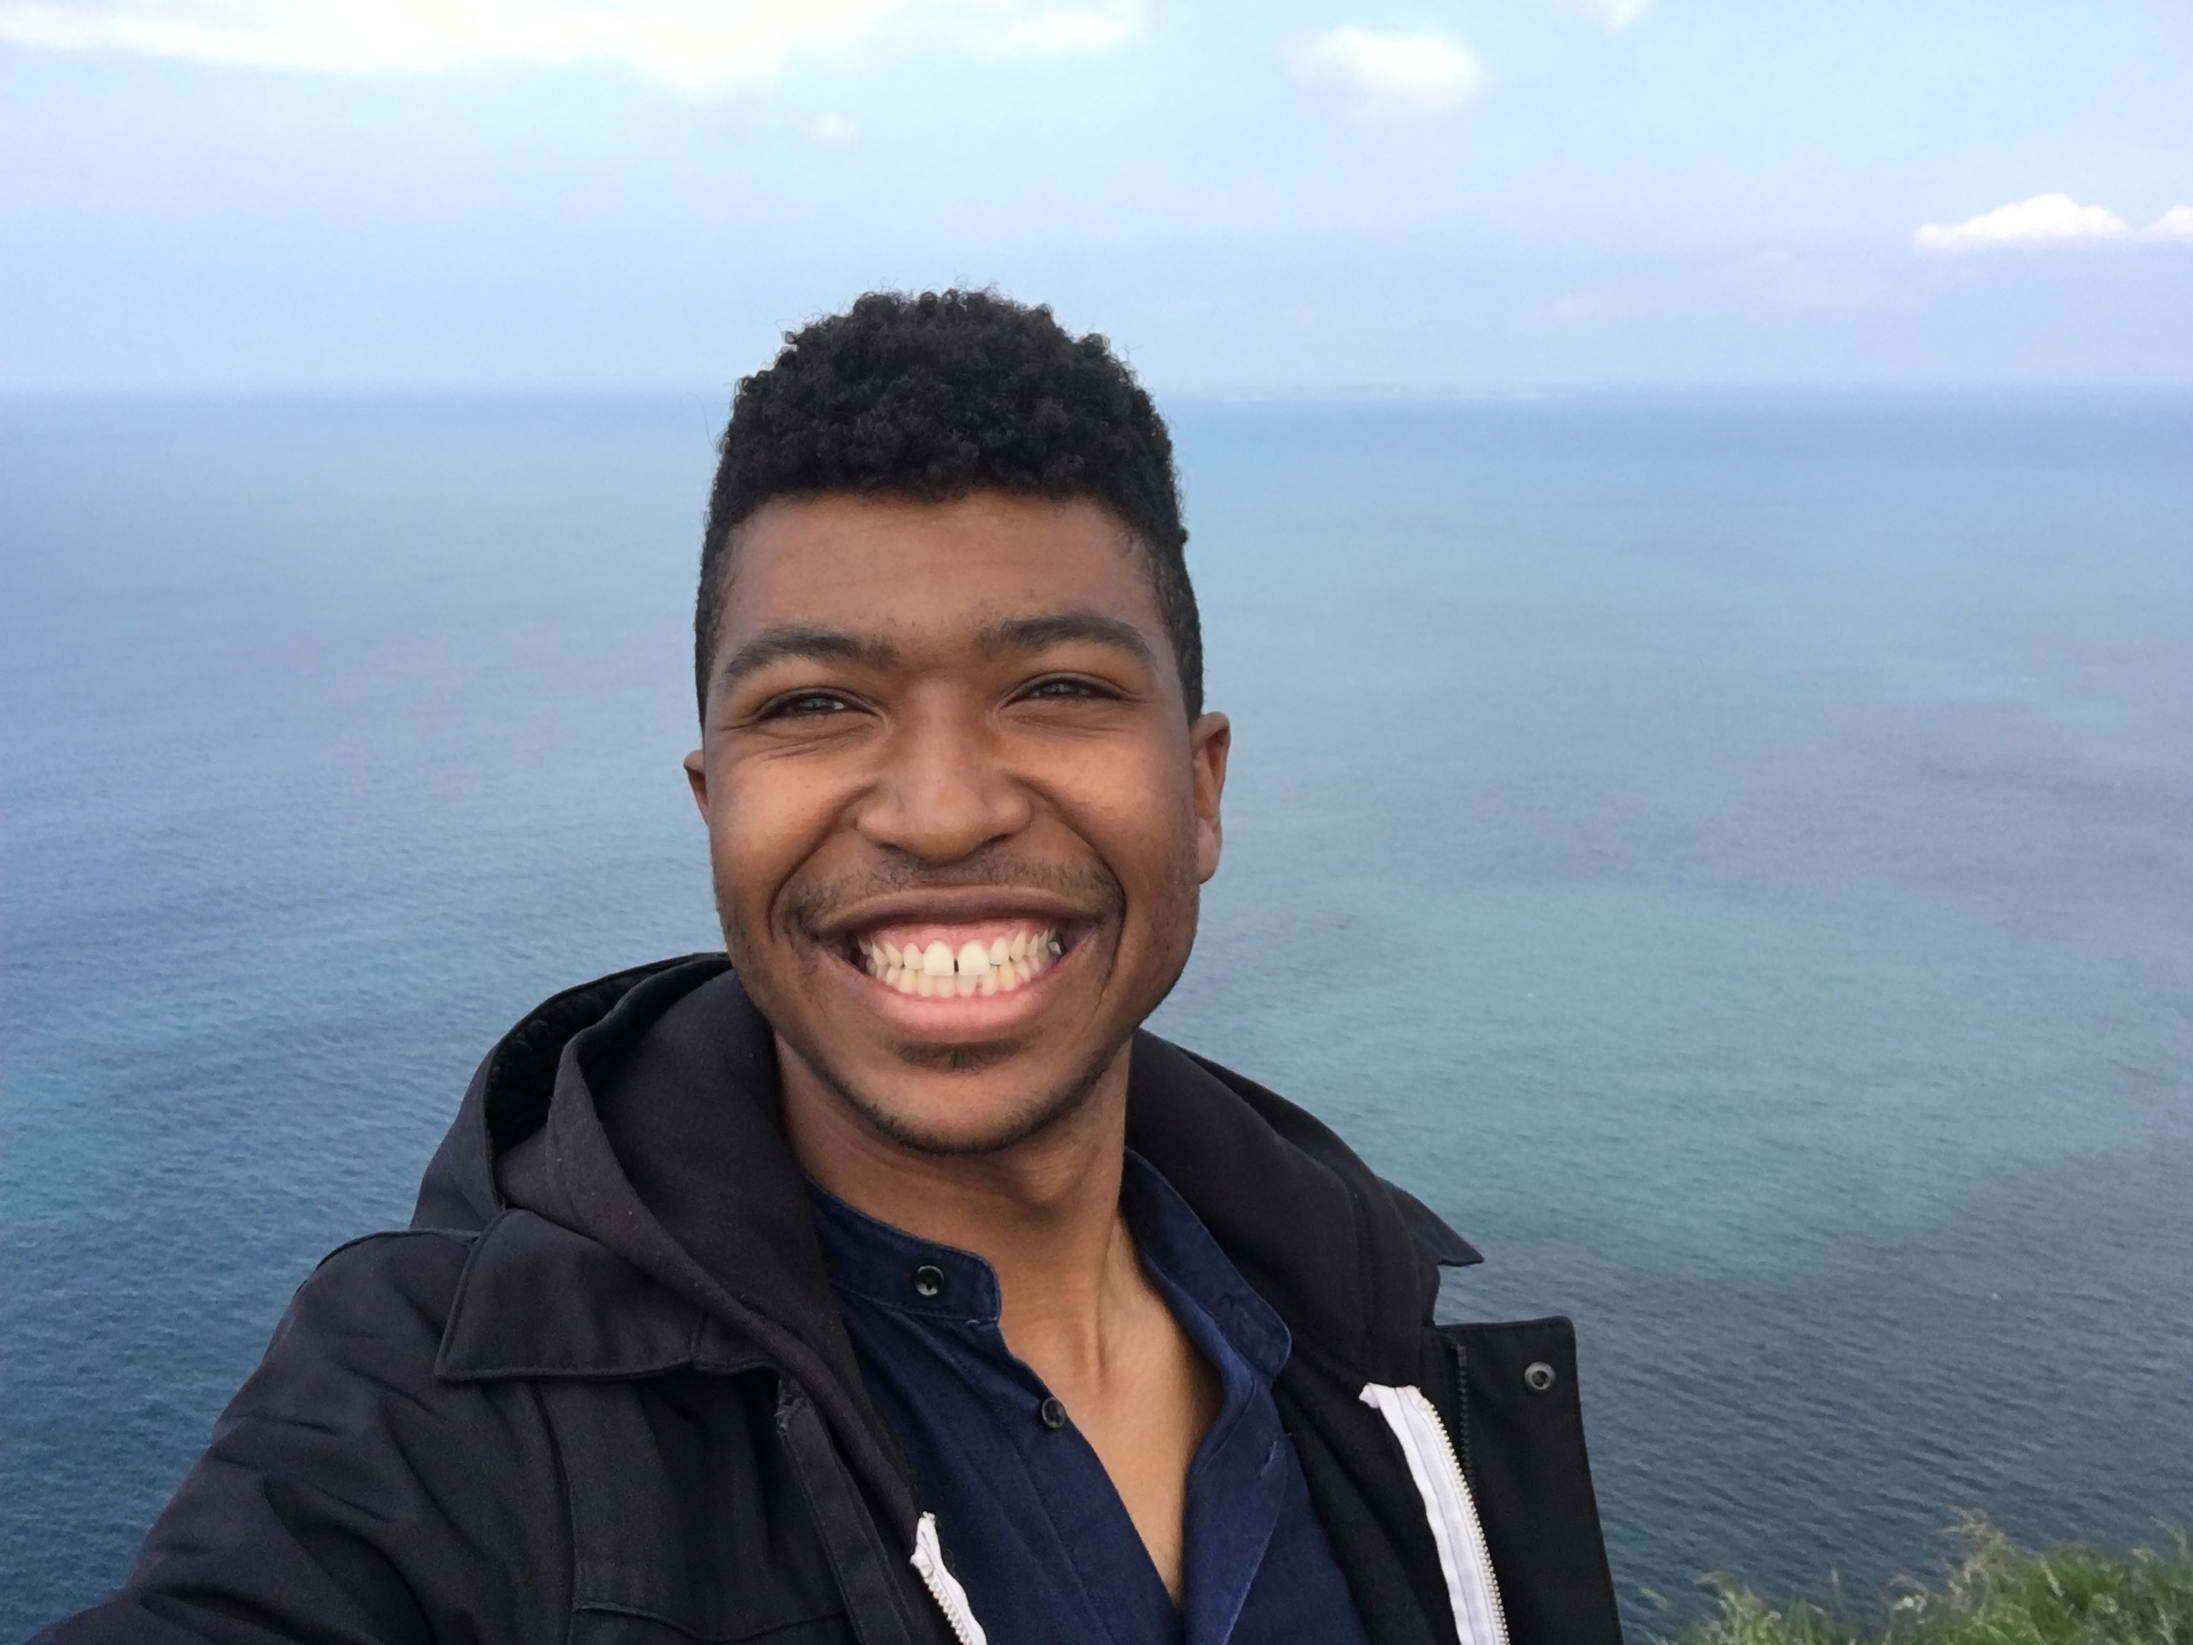
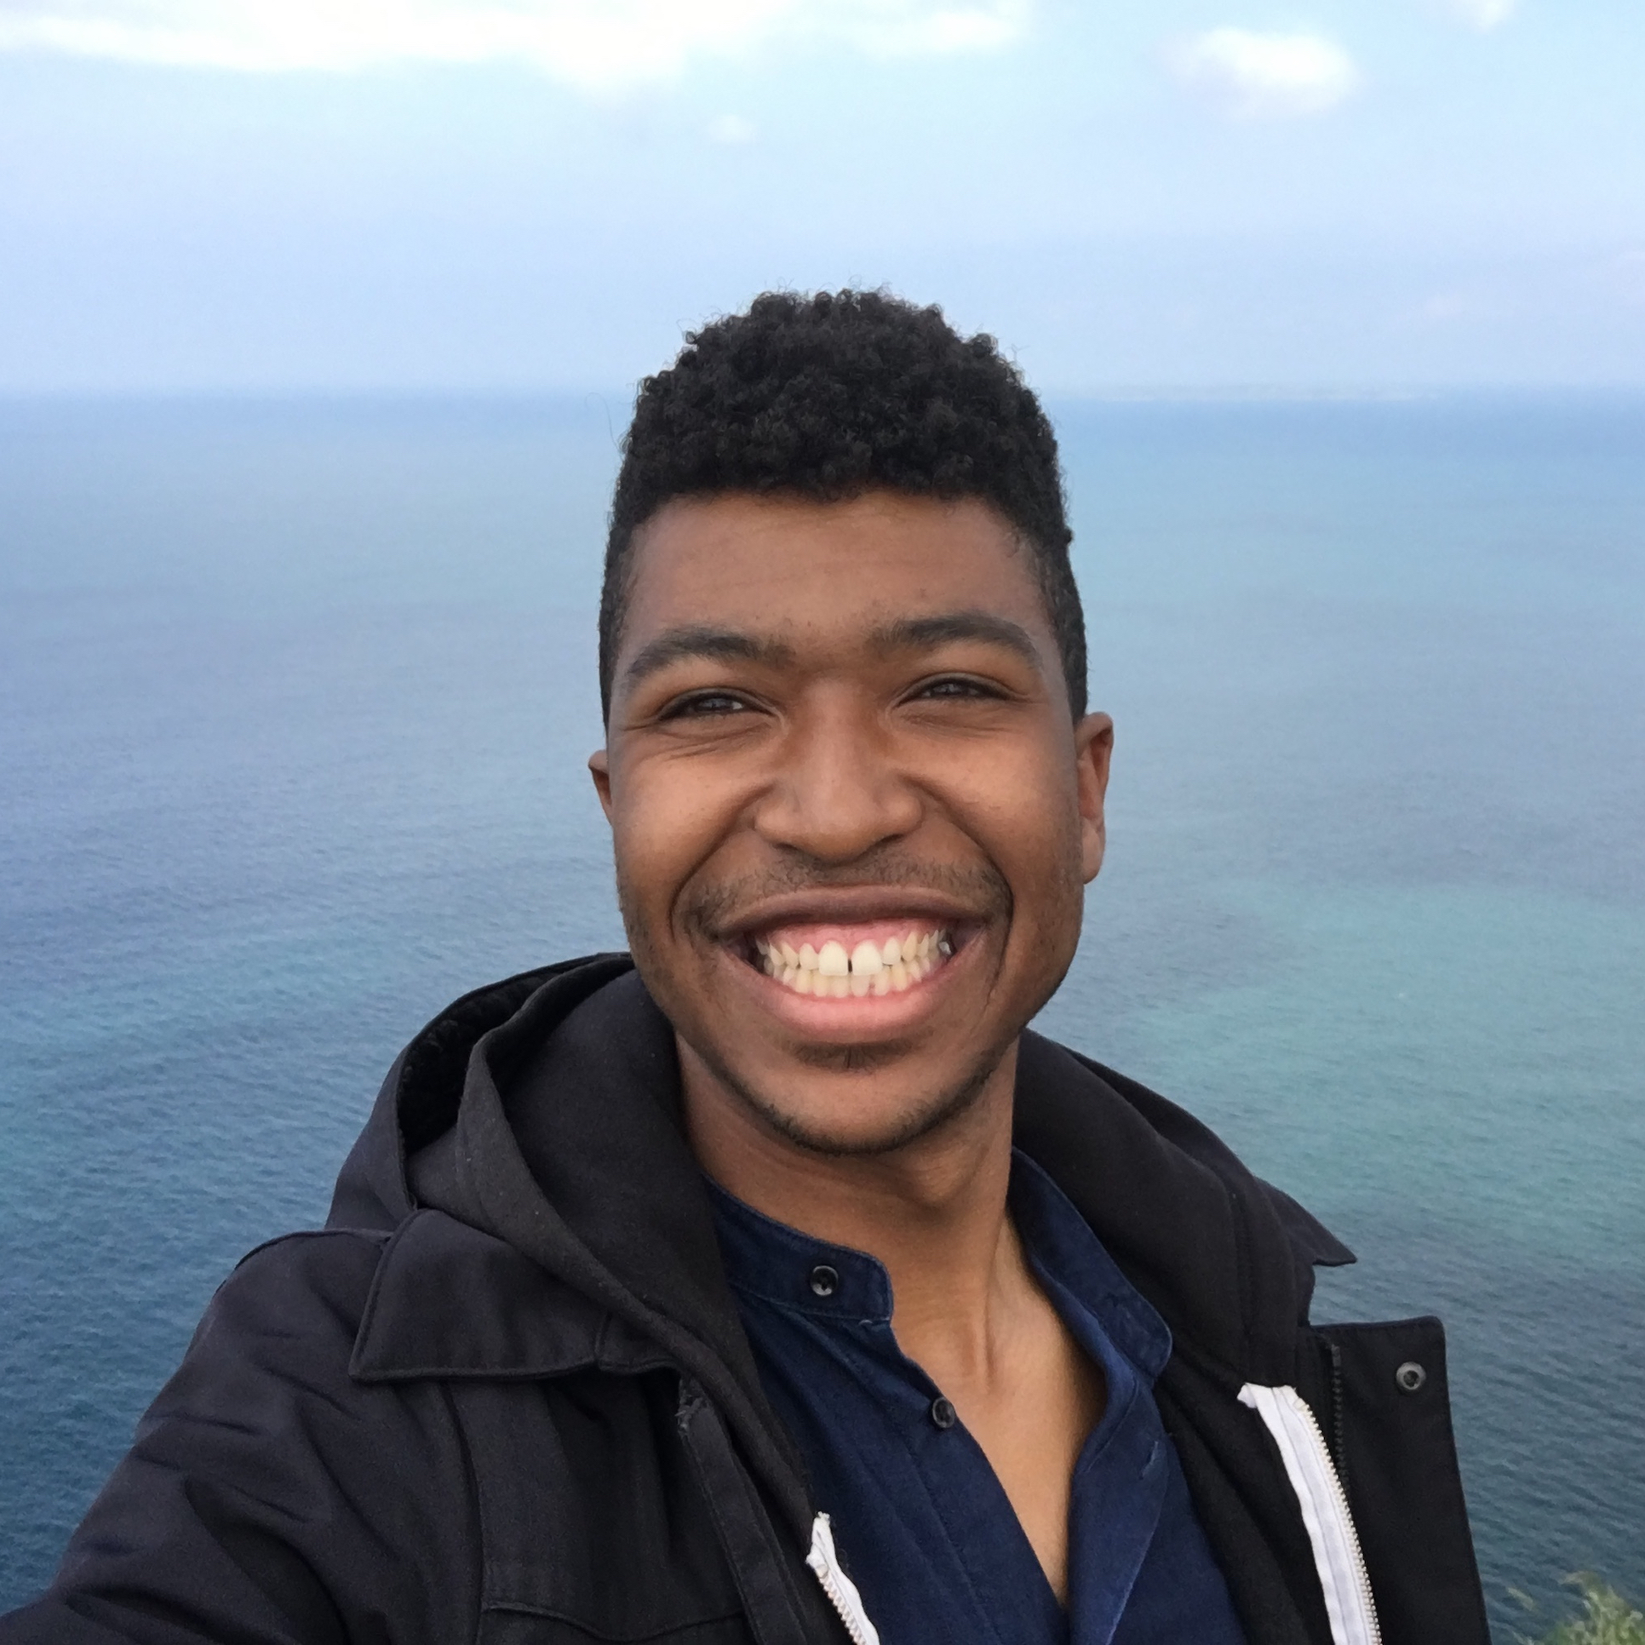
add captions, fixed team images, added link to poster

diff --git a/index.html b/index.html
@@ -194,15 +194,31 @@ At Artistry we aim to empower artists to represent the evolution of their work, 
                 <div class="carousel-inner">
                     <div class="carousel-item active">
                         <img class="d-block" src="./assets/images/mockup/mockup1.png" alt="First slide" style="max-height: 500px;">
+                        <div class="carousel-caption">
+                            <h5>Organize your work</h5>
+                            <p>Switch between grid and list views. Sort, edit and delete your art projects.</p>
+                        </div>
                     </div>
                     <div class="carousel-item">
                         <img class="d-block" src="./assets/images/mockup/mockup2.png" alt="Second slide" style="max-height: 500px;">
+                        <div class="carousel-caption">
+                            <h5>See your work evolve</h5>
+                            <p>Click on the timeline to see prior versions of your work. Share with a long press.</p>
+                        </div>
                     </div>
                     <div class="carousel-item">
                         <img class="d-block" src="./assets/images/mockup/mockup3.png" alt="Third slide" style="max-height: 500px;">
+                        <div class="carousel-caption">
+                            <h5>Create in Virtual Reality</h5>
+                            <p>For 3D artworks, use the immersion and intuitiveness of VR to perfect the details.</p>
+                        </div>
                     </div>
                     <div class="carousel-item">
                         <img class="d-block" src="./assets/images/mockup/mockup4.png" alt="Fourth slide" style="max-height: 500px;">
+                        <div class="carousel-caption">
+                            <h5>Collaborate with others</h5>
+                            <p>Work with others as if they were in the same room as you. Resolve any conflicts naturally.</p>
+                        </div>
                     </div>
                     <a class="carousel-control-prev" href="#carouselExampleControls" role="button" data-slide="prev">
                         <span class="carousel-control-prev-icon" aria-hidden="true"></span>
@@ -322,7 +338,7 @@ At Artistry we aim to empower artists to represent the evolution of their work, 
                     <div class="plan-body pb-5">
                         <h3 class="plan-title text-center mbr-fonts-style display-5">
                             Poster<br/><br /></h3>
-                        <div class="mbr-section-btn text-center pt-4"><a href="#"
+                        <div class="mbr-section-btn text-center pt-4"><a href="https://l.messenger.com/l.php?u=https%3A%2F%2Fdrive.google.com%2Ffile%2Fd%2F1UCeUTC0brx_zaZ4pFmbUXf2cuaTbtbqu%2Fview%3Fusp%3Dsharing&h=AT0jgRIMAGKkLkgdlyCurRQ2eVrSuTKZwoJpS3gKPfFG7HqN7I0iVvSARkkoySNxzt0UwVLhRnDz9z7EWSRbzsU7j-N18Tfk2KFrtNUzAEk5WNVLSycRdCodWtu_ZHWa7ATja2U0xYU"
                                 class="btn btn-primary display-4">DOWNLOAD</a></div>
                     </div>
                 </div>

diff --git a/assets/theme/css/style.css b/assets/theme/css/style.css
@@ -508,8 +508,9 @@ nav .mbr-section-btn {
     filter: invert(100%);
 }
 
-.carousel-indicators {
-    filter: invert(100%);
-    bottom: -100px;
+.carousel-caption {
+    color: white;
+    background: rgba(0, 0, 0, 0.575);
+    border-radius: 10px;
 }
 
